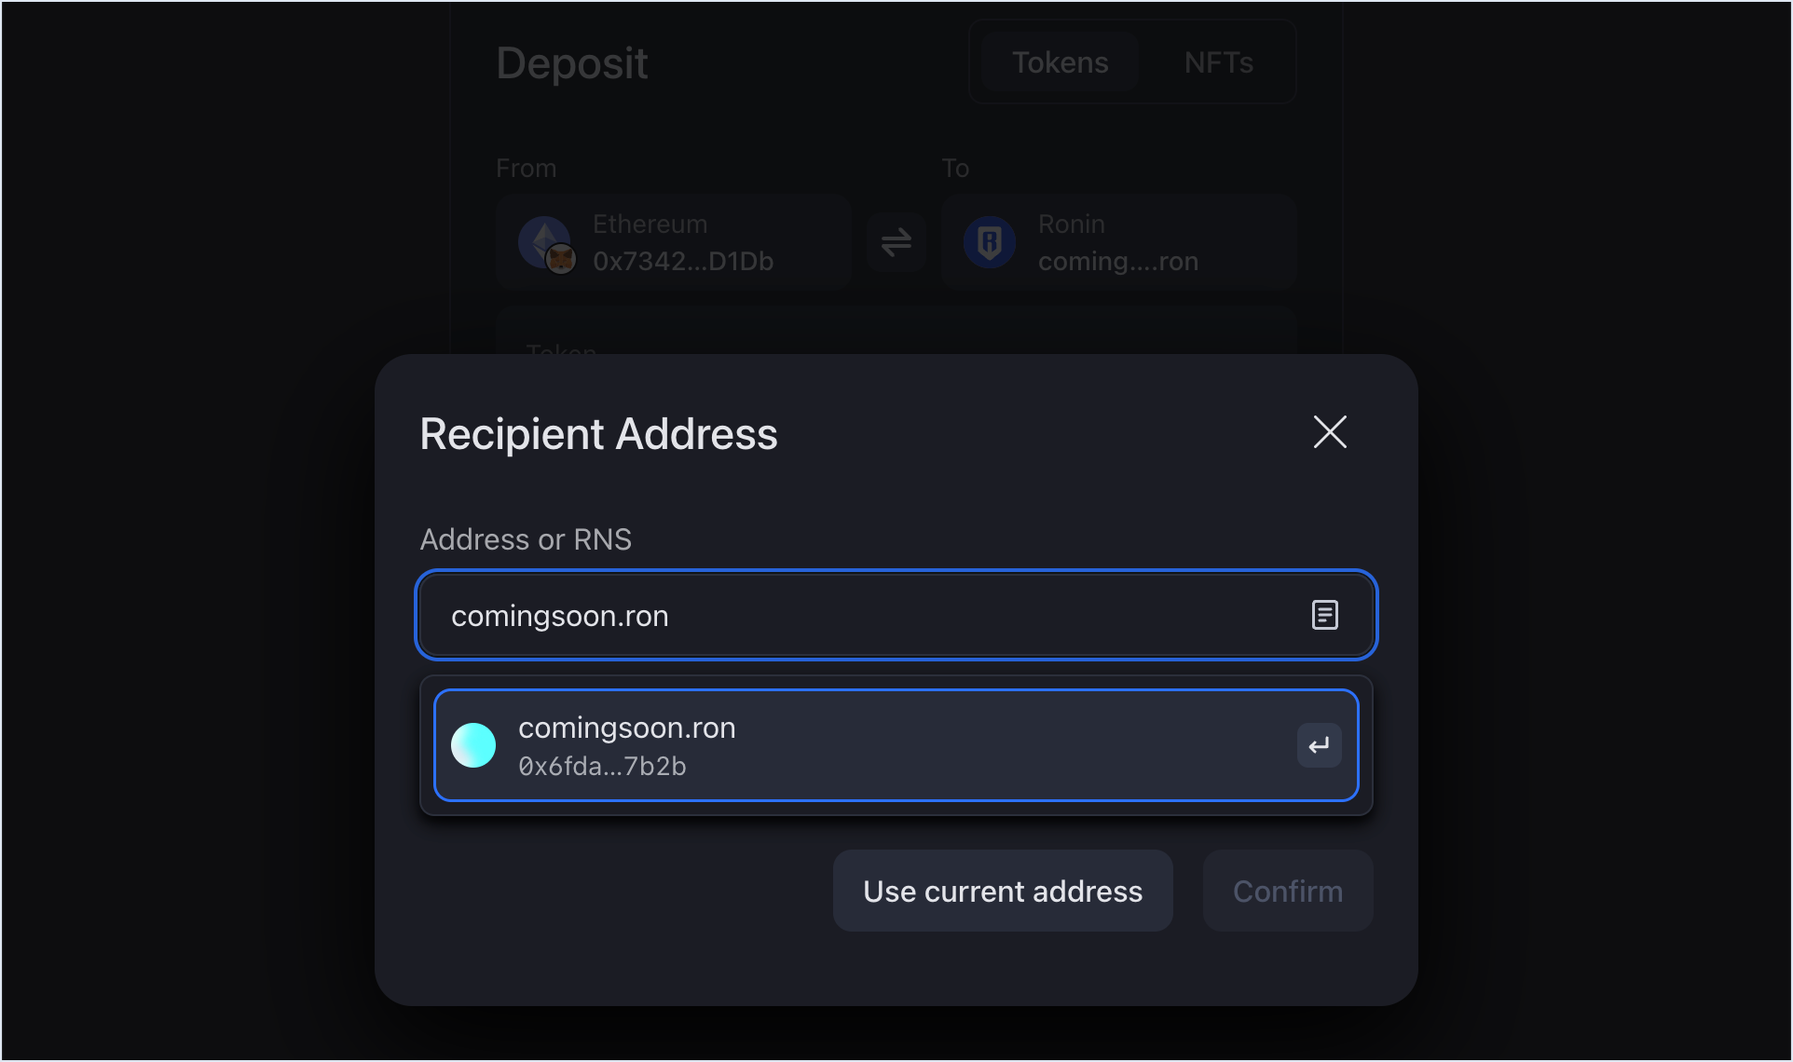
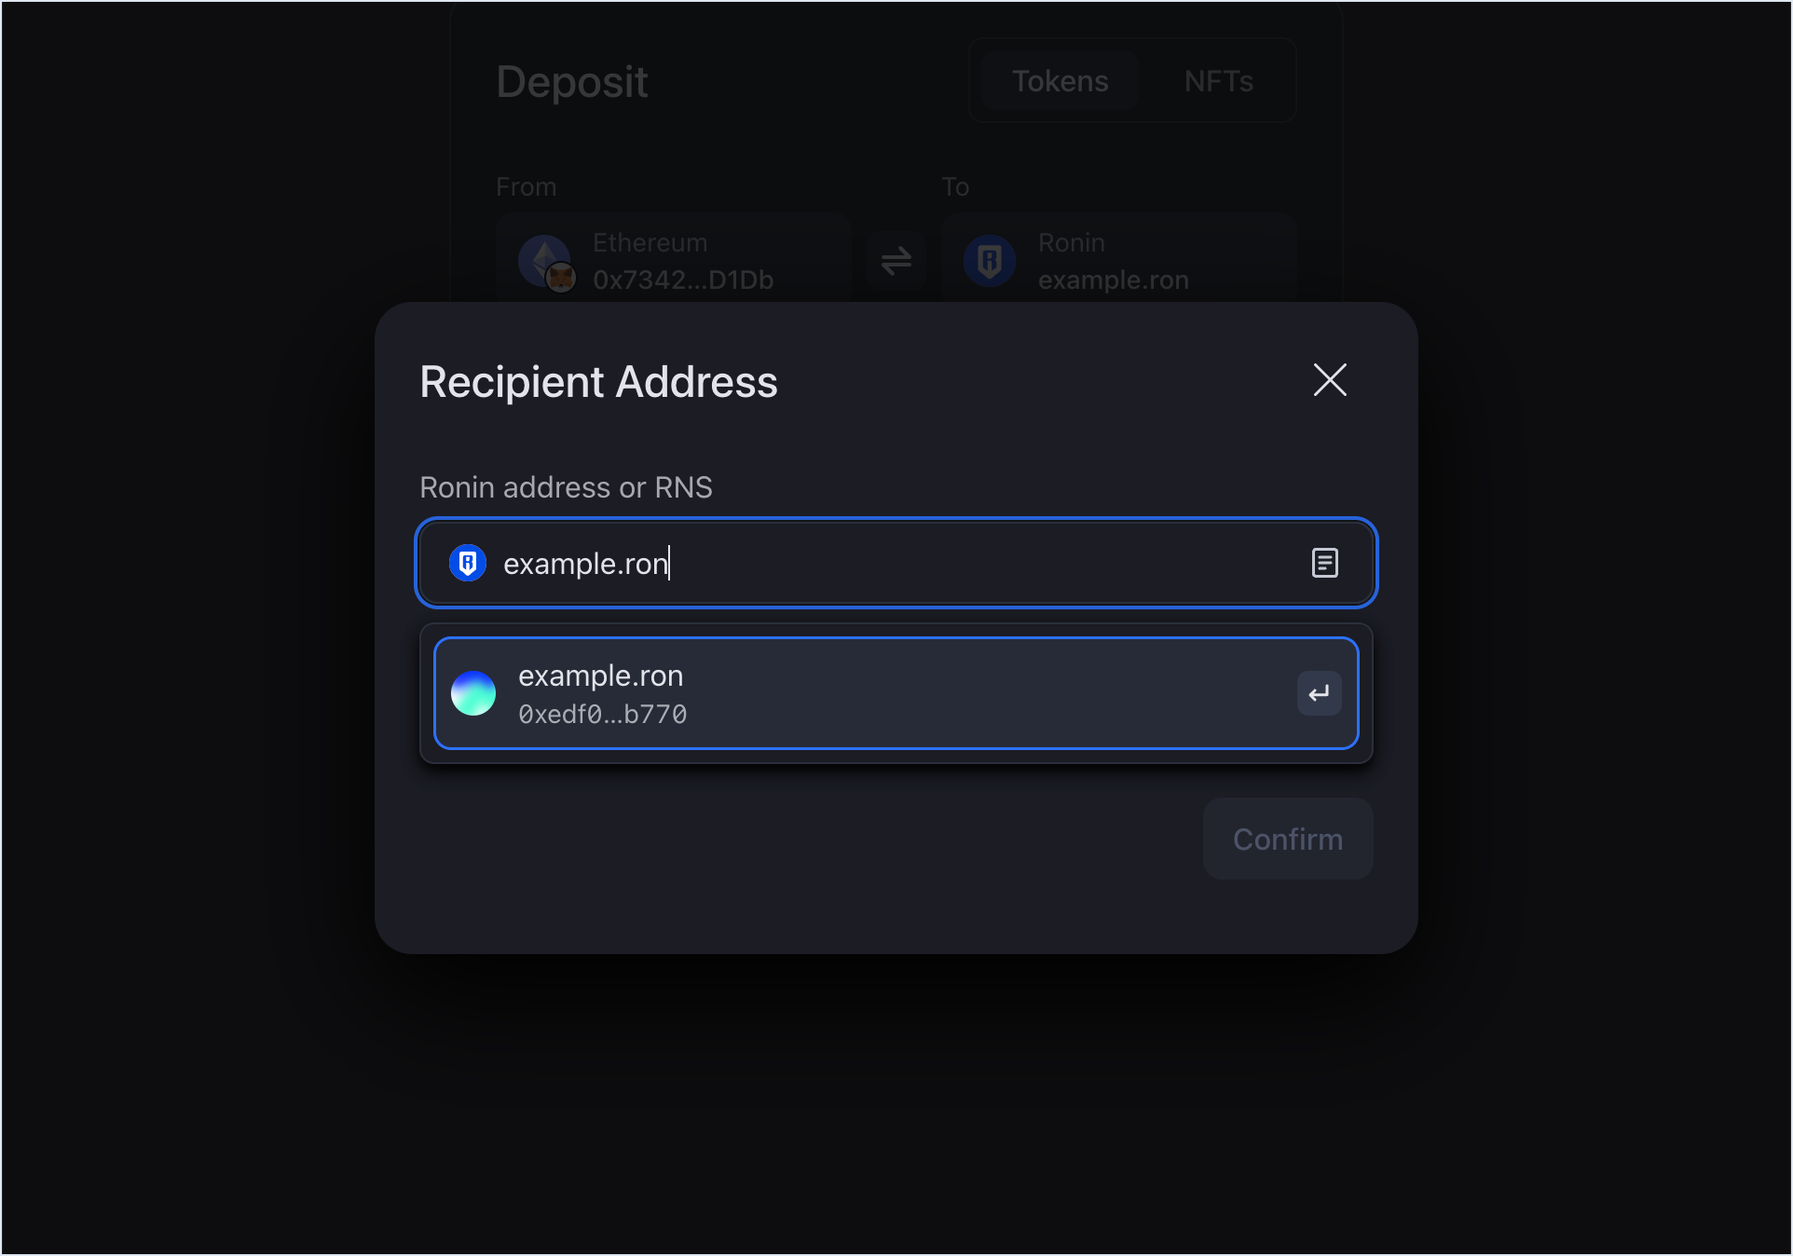
feat/RDOC-40 (#262)
* feat: add more detailed steps to Ronin Bridge guides

* feat: add link to revoke tool in deposit NFT

diff --git a/sidebars.js b/sidebars.js
@@ -107,13 +107,13 @@ const sidebars = {
           },
           items: [
             // Deposit ERC20 tokens
-            'apps/ronin-bridge/guides/token-deposit',
+            'apps/ronin-bridge/guides/deposit-token',
             // Withdraw ERC20 tokens
-            'apps/ronin-bridge/guides/token-withdraw',
+            'apps/ronin-bridge/guides/withdraw-token',
             // Deposit NFTs
-            'apps/ronin-bridge/guides/nft-deposit',
+            'apps/ronin-bridge/guides/deposit-nft',
             // Withdraw NFTs
-            'apps/ronin-bridge/guides/nft-withdraw',
+            'apps/ronin-bridge/guides/withdraw-nft',
             // Token withdrawal limits
             'apps/ronin-bridge/reference/withdrawal-limits',
           ]

diff --git a/docs/apps/ronin-bridge/guides/withdraw-nft.md b/docs/apps/ronin-bridge/guides/withdraw-nft.md
@@ -1,27 +1,33 @@
 ---
-description: Withdraw NFTs from Ronin Wallet to an Ethereum address using Ronin Bridge.
+description: Transfer NFTs from Ronin to Ethereum using Ronin Bridge.
+slug: /apps/ronin-bridge/withdraw-nft
 title: Withdraw an NFT
+toc_max_heading_level: 2
 ---
 
 ## Overview
 
-This guide describes how to use Ronin Bridge to send an NFT (non-fungible token) from your Ronin Wallet to an Ethereum wallet. For information on supported NFT collections, see [Supported assets](../overview.md#supported-assets).
+This guide describes how to use Ronin Bridge to send an NFT (non-fungible token) from your Ronin Wallet to an address on Ethereum.
 
 ## Prerequisites
 
-If you access Ronin Bridge through the Ronin Wallet mobile app, then you can only connect Ethereum wallets imported into your Ronin Wallet beforehand. For more information, see [Importing Your MetaMask Wallet to Ronin Wallet](https://support.roninchain.com/hc/en-us/articles/14862812718107-Importing-Your-MetaMask-Wallet-to-Ronin-Wallet).
+If you access Ronin Bridge through the Ronin Wallet mobile app, then you can only connect Ethereum wallets imported into your Ronin Wallet beforehand. 
 
-## Step 1. Fill in the details
+To import your Ethereum wallets, see [Importing Your MetaMask Wallet to Ronin Wallet](https://support.roninchain.com/hc/en-us/articles/14862812718107-Importing-Your-MetaMask-Wallet-to-Ronin-Wallet).
 
-1. Open the [Ronin Bridge](https://app.roninchain.com/bridge) app.
-2. Switch to the **Withdraw NFTs** tab by selecting the button between the **From** and **To** fields.
+## Step 1. Add the sender and recipient addresses
+
+1. Open [Ronin Bridge](https://app.roninchain.com/bridge) and select the **NFTs** tab.
+   ![nft-withdrawal-0](../assets/nft-deposit-0.png)
+2. Switch to the withdrawal feature by selecting the button between the **From** and **To** fields.
    ![nft-withdrawal-1](../assets/nft-withdrawal-1.png)
 3. In the **From** field, connect your Ronin Wallet using the browser extension or mobile app.
    ![nft-withdrawal-2](../assets/nft-withdrawal-2.png)
-4. In the **To** field, enter the Ethereum address that you want to transfer the NFT to. **Note:** In the mobile Ronin Wallet app, you can enter any Ethereum address, but only your imported wallet will cover the gas fees for the transaction.
+4. In the **To** field, enter the Ethereum address that you want to transfer the NFT to. Double-check the recipient address to avoid sending your NFT to the wrong destination.
+   :::note[Ronin Wallet app]
+   If you access Ronin Bridge through the Ronin Wallet mobile app, then you can enter any Ethereum address as a recipient, but only your imported Ethereum wallet can pay the gas fees for the transaction.
+   :::
    ![nft-withdrawal-3](../assets/nft-withdrawal-3.png)
-
-Double-check the recipient address to avoid sending your NFT to the wrong destination.
 
 ## Step 2. Select the NFT to withdraw
 
@@ -30,33 +36,31 @@ Double-check the recipient address to avoid sending your NFT to the wrong destin
 2. In the collection, select the specific NFT.
    ![nft-withdrawal-5](../assets/nft-withdrawal-5.png)
 
-## Step 3. Authorize the bridge to transfer your NFT
+## Step 3. Approve the NFT
 
 To withdraw an NFT, you need to grant Ronin Bridge permission to transfer it, which is also referred to as *approval*. You have two ways to do it: approve a single token or approve all tokens.
 
 ### Approve a single token
 
-You can choose to grant permission to each individual NFT that you transfer:
+Approving a single token means that every time you transfer an NFT, you will need to approve each token individually. So when you transfer another token in the future, you will need to approve it again.
 
 1. With the NFT selected, click **Approve NFT**.
    ![nft-withdrawal-6](../assets/nft-withdrawal-6.png)
-1. Select **Single token**.
+2. Select **Single token**.
    ![nft-withdrawal-7](../assets/nft-withdrawal-7.png)
-
-When you make another transfer in the future, you will need to approve it again.
 
 ### Approve all tokens
 
-Alternatively, grant access to all your tokens at once to bypass the single token approval step in the future:
+Approving all tokens means that you only need to grant approval once, and your future NFT transfers will not require any approval.
 
 1. Select the NFT you want to transfer, then click **Approve NFT**.
    ![nft-withdrawal-6](../assets/nft-withdrawal-6.png)
-1. Select **All tokens**.
+2. Select **All tokens**.
    ![nft-withdrawal-8](../assets/nft-withdrawal-8.png)
 
-This way, your future transfers will not require approvals.
+You can revoke token approval by using the [Token Revoke](https://ronin.axiedao.org/revoke/) tool.
 
-## Step 4. Withdraw your NFT
+## Step 4. Confirm your withdrawal
 
 1. Review the transaction details, including the gas fees associated with the withdrawal. Make sure you have enough ETH in your Ethereum wallet to cover the fees. If everything looks correct, select **Submit withdrawal**.
    ![nft-withdrawal-9](../assets/nft-withdrawal-9.png)

diff --git a/docs/apps/ronin-bridge/guides/withdraw-token.md b/docs/apps/ronin-bridge/guides/withdraw-token.md
@@ -1,45 +1,45 @@
 ---
-description: Withdraw ERC20 tokens from Ronin Wallet to an Ethereum address using Ronin Bridge.
+description: Transfer ERC20 tokens from Ronin to Ethereum using Ronin Bridge.
+slug: /apps/ronin-bridge/withdraw-token
 title: Withdraw an ERC20 token
 ---
 
 ## Overview
 
-This guide describes how to use Ronin Bridge to send an ERC20 token from your Ronin Wallet to an Ethereum wallet. For information on supported ERC20 tokens, see [Supported assets](../overview.md#supported-assets).
+This guide describes how to use Ronin Bridge to send an ERC20 token from your Ronin Wallet to an address on Ethereum.
 
 ## Prerequisites
 
-If you access Ronin Bridge through the Ronin Wallet mobile app, then you can only connect Ethereum wallets imported into your Ronin Wallet beforehand. For more information, see [Importing Your MetaMask Wallet to Ronin Wallet](https://support.roninchain.com/hc/en-us/articles/14862812718107-Importing-Your-MetaMask-Wallet-to-Ronin-Wallet).
+If you access Ronin Bridge through the Ronin Wallet mobile app, then you can only connect Ethereum wallets imported into your Ronin Wallet beforehand.
 
-## Step 1. Fill in the details
+To import your Ethereum wallets, see [Importing Your MetaMask Wallet to Ronin Wallet](https://support.roninchain.com/hc/en-us/articles/14862812718107-Importing-Your-MetaMask-Wallet-to-Ronin-Wallet).
 
-1. Open the [Ronin Bridge](https://app.roninchain.com/bridge) app.
-2. Switch to the **Withdraw** tab by selecting the button between the **From** and **To** fields.
+## Step 1. Add the sender and recipient addresses
+
+1. Open [Ronin Bridge](https://app.roninchain.com/bridge).
+   ![token-withdrawal-0](../assets/token-deposit-0.png)
+2. Switch to the withdrawal feature by selecting the button between the **From** and **To** fields.
    ![token-withdrawal-1](../assets/token-withdrawal-1.png)
 3. In the **From** field, connect your Ronin Wallet using the browser extension or mobile app for your device.
    ![token-withdrawal-2](../assets/token-withdrawal-2.png)
-4. In the **To** field, enter the Ethereum address that you want to transfer the token to. **Ronin Wallet mobile users:** You can enter any Ethereum address, but only your imported wallet will cover the gas fees for the transaction.
+4. In the **To** field, enter the Ethereum address that you want to transfer the token to. Double-check the recipient address to avoid sending your tokens to the wrong destination.
+   :::note[Ronin Wallet app]
+   If you access Ronin Bridge through the Ronin Wallet mobile app, then you can enter any Ethereum address as a recipient, but only your imported Ethereum wallet can pay the gas fees for the transaction.
+   :::
    ![token-withdrawal-3](../assets/token-withdrawal-3.png)
 
-Double-check the recipient address to avoid sending your tokens to the wrong destination.
-
 ## Step 2. Choose the token and amount
-
-:::note[Set your spending cap]
-First-time bridging ERC20 tokens requires setting a spending cap, initially set to zero. Enter your desired bridging amount, and approve the corresponding spending cap.
-
-For future bridgings exceeding your current cap, re-approval is needed to update the limit.
-
-Remember, the cap can't exceed your wallet's token balance.
-:::
 
 1. Choose the ERC20 token that you want to withdraw, then enter the withdrawal amount manually or select **Max** to withdraw the entire balance of this token available in your wallet.
    ![token-withdrawal-4](../assets/token-withdrawal-4.png)
 2. When prompted, select **Approve** to approve the new spending cap for the selected token.
+   :::note[Spending cap]
+   When you transfer an ERC20 token for the first time, you need to set a spending cap. To do that, enter your desired transfer amount, then follow instructions on the screen to approve the cap. When you make another transfer with the amount that exceeds your current cap, you will need to approve a new spending cap corresponding to the higher amount.
+   :::
    ![token-withdrawal-5](../assets/token-withdrawal-5.png)
 3. When prompted, sign the transaction in your Ronin Wallet.
 
-## Step 3. Confirm the withdrawal
+## Step 3. Confirm your withdrawal
 
 1. Review the transaction details, including the gas fees associated with the withdrawal. Make sure you have enough ETH in your Ethereum wallet to cover the fees. If everything looks correct, select **Submit withdrawal**.
    ![token-withdrawal-6](../assets/token-withdrawal-6.png)
@@ -52,7 +52,7 @@ Remember, the cap can't exceed your wallet's token balance.
    ![token-withdrawal-9](../assets/token-withdrawal-9.png)
 6. When prompted, sign the transaction in your connected Ethereum wallet to receive the transfer.
 
-## Step 4. Receive the token in your Ethereum wallet
+## Step 4. Receive the tokens in your Ethereum wallet
 
 When the withdrawal is complete, you'll see a "Withdrawal completed" window.
 ![token-withdrawal-10](../assets/token-withdrawal-10.png)

diff --git a/docs/apps/ronin-bridge/guides/deposit-nft.md b/docs/apps/ronin-bridge/guides/deposit-nft.md
@@ -1,23 +1,32 @@
 ---
-description: Deposit NFTs from a compatible Ethereum wallet into Ronin Wallet using Ronin Bridge.
+description: Transfer NFTs from Ethereum to Ronin using Ronin Bridge.
+slug: /apps/ronin-bridge/deposit-nft
 title: Deposit an NFT
+toc_max_heading_level: 2
 ---
 
 ## Overview
 
-This guide describes how to use Ronin Bridge to send an NFT (non-fungible token) from an Ethereum wallet to your Ronin Wallet. For information on supported NFT collections, see [Supported assets](../overview.md#supported-assets).
+This guide describes how to use Ronin Bridge to send an NFT (non-fungible token) from your Ethereum wallet, such as MetaMask or Trust Wallet, to an address on the Ronin chain.
 
 ## Prerequisites
 
-If you access Ronin Bridge through the Ronin Wallet mobile app, then you can only connect Ethereum wallets imported into your Ronin Wallet beforehand. For more information, see [Importing Your MetaMask Wallet to Ronin Wallet](https://support.roninchain.com/hc/en-us/articles/14862812718107-Importing-Your-MetaMask-Wallet-to-Ronin-Wallet).
+If you access Ronin Bridge through the Ronin Wallet mobile app, then you can only connect Ethereum wallets imported into your Ronin Wallet beforehand.
 
-## Step 1. Fill in the details
+To import your Ethereum wallets, see [Importing Your MetaMask Wallet to Ronin Wallet](https://support.roninchain.com/hc/en-us/articles/14862812718107-Importing-Your-MetaMask-Wallet-to-Ronin-Wallet).
 
-1. Open the [Ronin Bridge](https://app.roninchain.com/bridge) app select the **NFTs** tab.
-2. In the **From** field, connect the Ethereum wallet that you want to transfer the NFT from. In the mobile Ronin Wallet app, select your imported Ethereum wallet.
+## Step 1. Add the sender and recipient addresses
+
+1. Open [Ronin Bridge](https://app.roninchain.com/bridge) and select the **NFTs** tab.
+   ![nft-deposit-0](../assets/nft-deposit-0.png)
+2. In the **From** field, connect the Ethereum wallet that you want to transfer the NFT from. The supported wallets include MetaMask and Trust Wallet.
    ![nft-deposit-1](../assets/nft-deposit-1.png)
-3. In the **To** field, enter your Ronin address that you want to deposit the NFT into.
+3. In the **To** field, enter the Ronin address that you want to deposit the NFT into. You can also enter the RNS (Ronin Name Service) domain name linked to the address, such as "example.ron". Make sure to specify the *full RNS name* including the ".ron" part, so that the system can recognize the linked address.
    ![nft-deposit-2](../assets/nft-deposit-2.png)
+   :::note[RNS integration]
+   If the recipient address has an RNS name linked to it, the **To** field will automatically show the RNS name instead of the address.
+   ![nft-deposit-rns](../assets/nft-deposit-rns.png)
+   :::
 
 ## Step 2. Select the NFT to deposit
 
@@ -26,13 +35,13 @@ If you access Ronin Bridge through the Ronin Wallet mobile app, then you can onl
 2. In the collection, select the specific NFT.
    ![nft-deposit-4](../assets/nft-deposit-4.png)
 
-## Step 3. Authorize the bridge to transfer your NFT
+## Step 3. Approve the NFT
 
 To deposit an NFT, you need to grant Ronin Bridge permission to transfer it, which is also referred to as *approval*. You have two ways to do it: approve a single token or approve all tokens.
 
 ### Approve a single token
 
-You can choose to grant permission to each individual NFT that you transfer:
+Approving a single token means that every time you transfer an NFT, you will need to approve each token individually. So when you transfer another token in the future, you will need to approve it again.
 
 1. With the NFT selected, click **Approve NFT**.
    ![nft-deposit-5](../assets/nft-deposit-5.png)
@@ -44,7 +53,7 @@ When you make another transfer in the future, you will need to approve it again.
 
 ### Approve all tokens
 
-Alternatively, grant access to all your tokens at once to bypass the single token approval step in the future:
+Approving all tokens means that you only need to grant approval once, and your future NFT transfers will not require any approval.
 
 1. Select the NFT you want to transfer, and then click **Approve NFT**.
    ![nft-deposit-5](../assets/nft-deposit-5.png)
@@ -52,9 +61,9 @@ Alternatively, grant access to all your tokens at once to bypass the single toke
    ![nft-deposit-7](../assets/nft-deposit-7.png)
 3. When prompted, sign the transaction in your connected wallet.
 
-This way, your future transfers will not require approvals.
+You can revoke token approval by using the [Token Revoke](https://ronin.axiedao.org/revoke/) tool.
 
-## Step 4. Deposit your NFT
+## Step 4. Confirm your deposit
 
 1. Review the transaction details, including the gas fees associated with the deposit. Make sure you have enough ETH in your Ethereum wallet to cover the fees. If everything looks correct, select **Deposit**.
    ![nft-deposit-8](../assets/nft-deposit-8.png)

diff --git a/docs/apps/ronin-bridge/guides/deposit-token.md b/docs/apps/ronin-bridge/guides/deposit-token.md
@@ -1,0 +1,47 @@
+---
+description: Transfer ERC20 tokens from Ethereum to Ronin using Ronin Bridge.
+slug: /apps/ronin-bridge/deposit-token
+title: Deposit an ERC20 token
+---
+
+## Overview
+
+This guide describes how to use Ronin Bridge to send an ERC20 token from your Ethereum wallet, such as MetaMask or Trust Wallet, to an address on the Ronin chain.
+
+## Prerequisites
+
+If you access Ronin Bridge through the Ronin Wallet mobile app, then you can only connect Ethereum wallets imported into your Ronin Wallet beforehand.
+
+To import your Ethereum wallets, see [Importing Your MetaMask Wallet to Ronin Wallet](https://support.roninchain.com/hc/en-us/articles/14862812718107-Importing-Your-MetaMask-Wallet-to-Ronin-Wallet).
+
+## Step 1. Add the sender and recipient addresses
+
+1. Open [Ronin Bridge](https://app.roninchain.com/bridge).
+   ![token-deposit-0](../assets/token-deposit-0.png)
+2. In the **From** field, connect the Ethereum wallet that you want to transfer the token from. The supported wallets include MetaMask and Trust Wallet.
+   ![token-deposit-1](../assets/token-deposit-1.png)
+3. In the **To** field, enter the Ronin address that you want to deposit the token into. You can also enter the RNS (Ronin Name Service) domain name linked to the address, such as "example.ron". Make sure to specify the *full RNS name* including the ".ron" part, so that the system can recognize the linked address.
+   ![token-deposit-2](../assets/token-deposit-2.png)
+   :::note[RNS integration]
+   If the recipient address has an RNS name linked to it, the **To** field will automatically show the RNS name instead of the address.
+   ![token-deposit-rns](../assets/token-deposit-rns.png)
+   :::
+
+## Step 2. Choose the token and amount
+
+Choose the ERC20 token that you want to deposit, then enter the amount manually or select **Max** to transfer the entire balance of this token available in your connected wallet.
+![token-deposit-3](../assets/token-deposit-3.png)
+
+## Step 3. Confirm your deposit
+
+1. Review the transaction details, including the gas fees associated with the deposit. Make sure you have enough ETH in your Ethereum wallet to cover the fees. If everything looks correct, select **Deposit**.
+   ![token-deposit-4](../assets/token-deposit-4.png)
+2. When prompted, sign the transaction in your connected wallet.
+3. Wait for the transaction to be confirmed by the network. Be patient, however, as transactions can take some time to complete, depending on network congestion and gas fees.
+   ![token-deposit-5](../assets/token-deposit-5.png)
+
+## Step 4. Receive the tokens in your Ronin Wallet
+
+When the deposit is complete, you'll see a "Deposit completed" window.
+![token-deposit-6](../assets/token-deposit-6.png)
+You should be able to see the deposited amount in your Ronin Wallet, on the **Funds** tab in the browser extension, or the **Tokens** tab in the mobile app.

diff --git a/docs/apps/ronin-bridge/overview.md b/docs/apps/ronin-bridge/overview.md
@@ -12,6 +12,13 @@ Ronin Bridge ([app.roninchain.com/bridge](https://app.roninchain.com/bridge)) is
 
 This is a multi-signature bridge, which means that when you make a transaction, multiple bridge operators have to approve it before it's finalized. This approach makes the bridge a secure choice for cross-chain transactions, preventing any single party from acting maliciously or making unauthorized changes.
 
+## User guides
+
+* [Deposit an ERC20 token](./guides/deposit-token.md)
+* [Withdraw an ERC20 token](./guides/withdraw-token.md)
+* [Deposit an NFT](./guides/deposit-nft.md)
+* [Withdraw an NFT](./guides/withdraw-nft.md)
+
 ## Supported wallets
 
 Ronin Bridge supports the following wallets:
@@ -31,7 +38,7 @@ With Ronin Bridge, you can transfer the following ERC20 tokens:
 
 Withdrawal limits apply. For more information, see [Withdrawal limits](./reference/withdrawal-limits.md).
 
-### NFTs
+### ERC721 tokens (NFTs)
 
 With Ronin Bridge, you can transfer NFTs (non-fungible tokens) from the following collections:
 
@@ -39,19 +46,12 @@ With Ronin Bridge, you can transfer NFTs (non-fungible tokens) from the followin
 * Cyberkongz VX
 * Cyberkongz Genkai
 
-## RNS compatibility
+## Ronin Name Service integration
 
-When sending a token to an address on Ronin, you can either enter the standard wallet address, such as "0x...", or its RNS (Ronin Name Service) representation, such as "comingsoon.ron".
+When sending a token to an address on Ronin, you can either enter the standard wallet address that starts with "0x...", or an RNS (Ronin Name Service) name, such as "example.ron".
 
-**Note:** Make sure to enter the entire RNS name, including the ".ron" part.
+Make sure to specify the *full RNS name* including the ".ron" part, so that the system can recognize the linked address.
 
 ![bridge-rns](./assets/bridge-rns.png)
 
 For more information about RNS, see [Register an RNS name](../rns/guides/register/regular.md).
-
-## User guides
-
-* [Deposit an NFT](./guides/nft-deposit.md)
-* [Withdraw an NFT](./guides/nft-withdraw.md)
-* [Deposit an ERC20 token](./guides/token-deposit.md)
-* [Withdraw an ERC20 token](./guides/token-withdraw.md)

diff --git a/docs/apps/ronin-bridge/reference/withdrawal-limits.md b/docs/apps/ronin-bridge/reference/withdrawal-limits.md
@@ -1,6 +1,7 @@
 ---
 description: Daily withdrawal limits per token on Ronin Bridge.
 slug: /apps/ronin-bridge/withdrawal-limits
+sidebar_label: Withdrawal limits
 title: Token withdrawal limits
 ---
 
